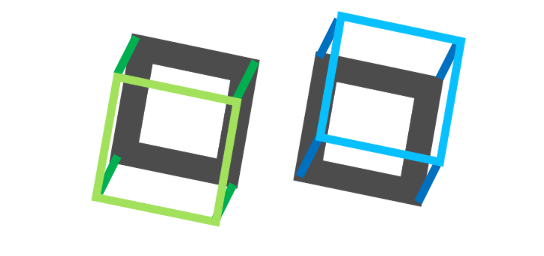
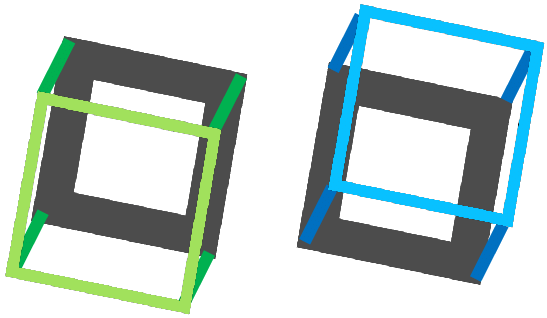
Added moto's planar ambiguity illustration

diff --git a/source/docs/software/vision-processing/apriltag/apriltag-intro.rst b/source/docs/software/vision-processing/apriltag/apriltag-intro.rst
@@ -190,17 +190,21 @@ The process of translating the four known corners of the target in the image (tw
 
 Humans can often use lighting or background clues to understand how objects are oriented in space. However, computers do not have this benefit. They can be tricked by similar-looking targets:
 
+.. image:: images/planar_ambiguity1_base.png
+   :alt: First optical illusion example of planar ambiguity
+   :width: 45 %
+
 .. image:: images/planar_ambiguity1.png
    :alt: First optical illusion example of planar ambiguity
-   :width: 30 %
+   :width: 45 %
 
 .. image:: images/planar_ambiguity2.png
    :alt: Second optical illusion example of planar ambiguity
-   :width: 30 %
+   :width: 45 %
 
 .. image:: images/planar_ambiguity3.png
    :alt: Third optical illusion example of planar ambiguity
-   :width: 30 %
+   :width: 45 %
 
 Resolving which position is "correct" can be done in a few different ways:
 
